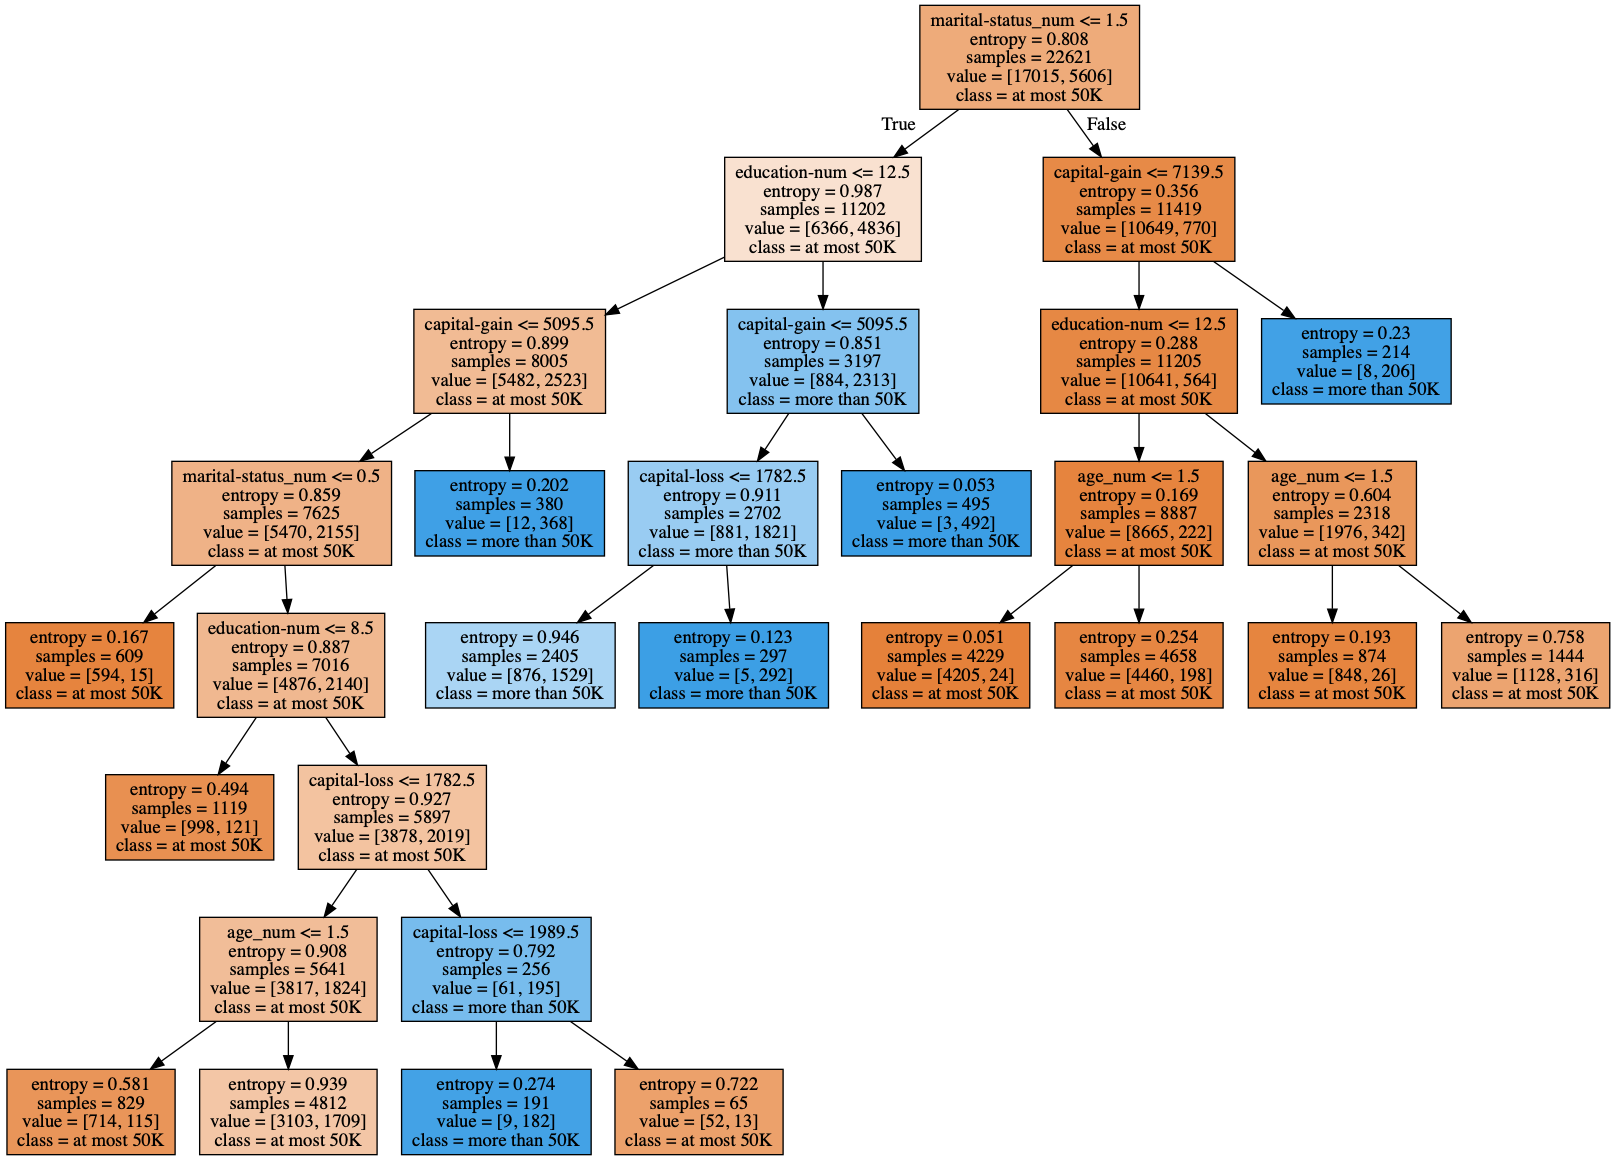
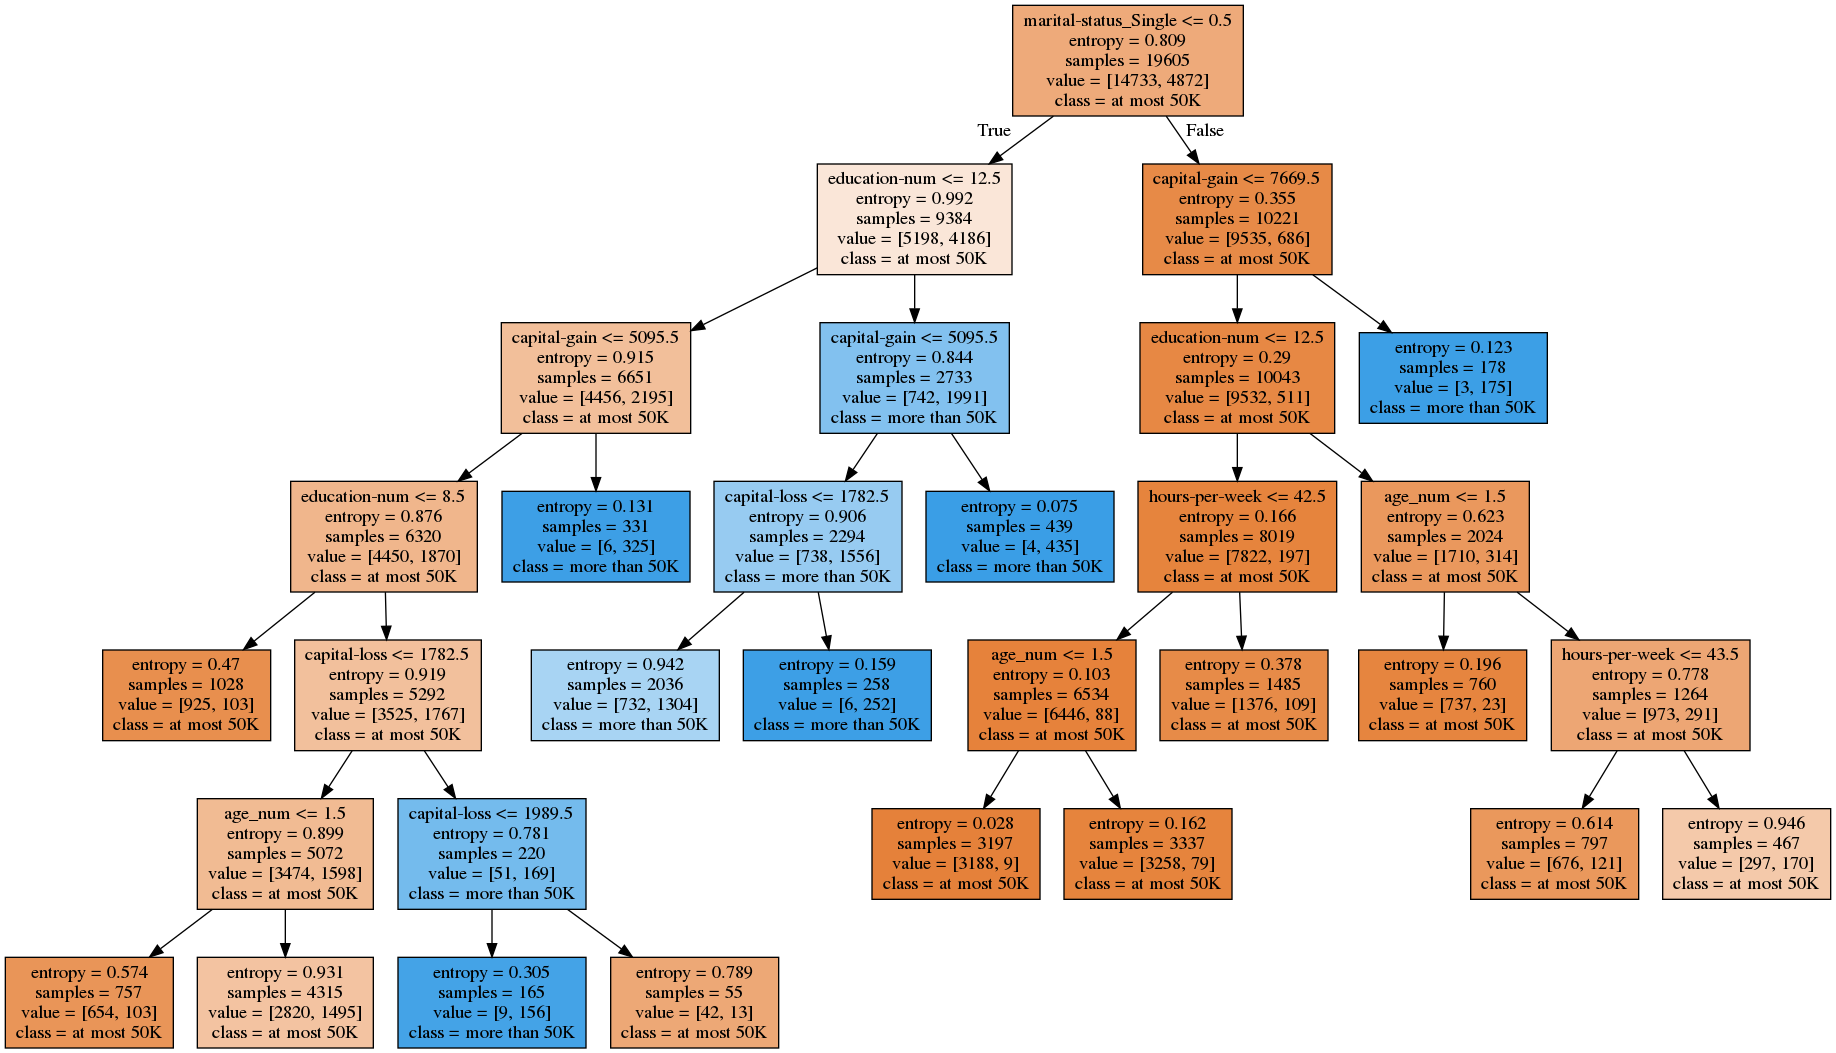
Update preprocess and grid search params

diff --git a/solution/preprocessors/data_loader.py b/solution/preprocessors/data_loader.py
@@ -51,9 +51,12 @@ class CensusDataLoader(object):
             self.pipeline = [
                 self.trim_strings,
                 self.drop_missing_values,
-                # self.update_marital_status,
-                self.create_category_num_columns,
+                self.update_marital_status,
+                # self.create_category_num_columns,
+                self.add_from_united_states_column,
+                self.create_dummy_columns,
                 self.bucket_age_column,
+                self.add_income_num_column,
             ]
 
     def apply_pipeline(self):
@@ -66,6 +69,11 @@ class CensusDataLoader(object):
         """
         for fxn in self.pipeline:
             self.df = fxn(self.df)
+        try:
+            with open(os.path.join(RUN_PATH, 'preprocessors/full_column_list.txt'), 'w') as column_list:
+                column_list.write('\n'.join(self.df.columns))
+        except Exception as e:
+            print('Exception writing census columns to file during preprocessing with error %s' % e)
         return self.df
 
     @property
@@ -123,6 +131,11 @@ class CensusDataLoader(object):
         return df
 
     @staticmethod
+    def add_from_united_states_column(df):
+        df['from_united_states'] = df['native-country'].apply(lambda country: 1 if country == 'United-States' else 0)
+        return df
+
+    @staticmethod
     def create_category_num_columns(df):
         """
         Transform categorical (class) data into a numerical representation.
@@ -153,6 +166,22 @@ class CensusDataLoader(object):
 
         for col, category_map in category_maps.items():
             df[col + '_num'] = df[col].map(category_map)
+        return df
+
+    @staticmethod
+    def create_dummy_columns(df):
+        df = df.join(pd.get_dummies(df[['workclass']], prefix='workclass', drop_first=True))
+        df = df.join(pd.get_dummies(df['marital-status'], prefix='marital-status', drop_first=True))
+        df = df.join(pd.get_dummies(df['occupation'], prefix='occupation', drop_first=True))
+        df = df.join(pd.get_dummies(df['relationship'], prefix='relationship', drop_first=True))
+        df = df.join(pd.get_dummies(df['race'], prefix='race', drop_first=True))
+        df = df.join(pd.get_dummies(df['sex'], prefix='sex', drop_first=True))
+        # df = df.join(pd.get_dummies(df['native-country'], prefix='native-country', drop_first=True))
+        return df
+
+    @staticmethod
+    def add_income_num_column(df):
+        df['income_num'] = df['income'].map({'<=50K': 0, '>50K': 1})
         return df
 
     @staticmethod

diff --git a/solution/classifiers/census_decision_tree.py b/solution/classifiers/census_decision_tree.py
@@ -16,6 +16,7 @@ from sklearn.tree import DecisionTreeClassifier, export_graphviz
 from sklearn.model_selection import GridSearchCV
 from sklearn.model_selection import learning_curve
 
+# We have to do some import magic for this to work on a Mac
 # https://github.com/MTG/sms-tools/issues/36
 from sys import platform as sys_pf
 if sys_pf == 'darwin':
@@ -51,15 +52,15 @@ derived_feature_columns = [
 df = pd.read_csv(os.path.join(DATA_PATH, CSV_FILENAME))
 df = CensusDataLoader(df).apply_pipeline()
 
-feature_cols = ['age_num', 'education-num', 'marital-status_num',
-                'occupation_num', 'hours-per-week', 'capital-gain',
-                'capital-loss', 'sex_num', 'race_num']
+feature_cols = ['age_num', 'education-num', 'marital-status_Single',
+                'hours-per-week', 'capital-gain',
+                'capital-loss', 'sex_Male', 'from_united_states']
 
 x_train, x_test, y_train, y_test = train_test_split(
     df[feature_cols],
     df['income_num'],
     random_state=0,
-    test_size=0.25
+    test_size=0.35
 )
 
 kfold = KFold(n_splits=5)
@@ -140,7 +141,7 @@ plt.plot(train_sizes, np.mean(train_scores, axis=1), color="r", label="Training 
 plt.plot(train_sizes, np.mean(valid_scores, axis=1), color="g", label="Cross Validation Set")
 plt.legend(loc='best')
 
-plt.savefig('census_output/learning_curve.png')
+plt.savefig('census_output/num_samples_learning_curve.png')
 
 # Plot the mean test score over max_depth
 grid_search = GridSearchCV(
